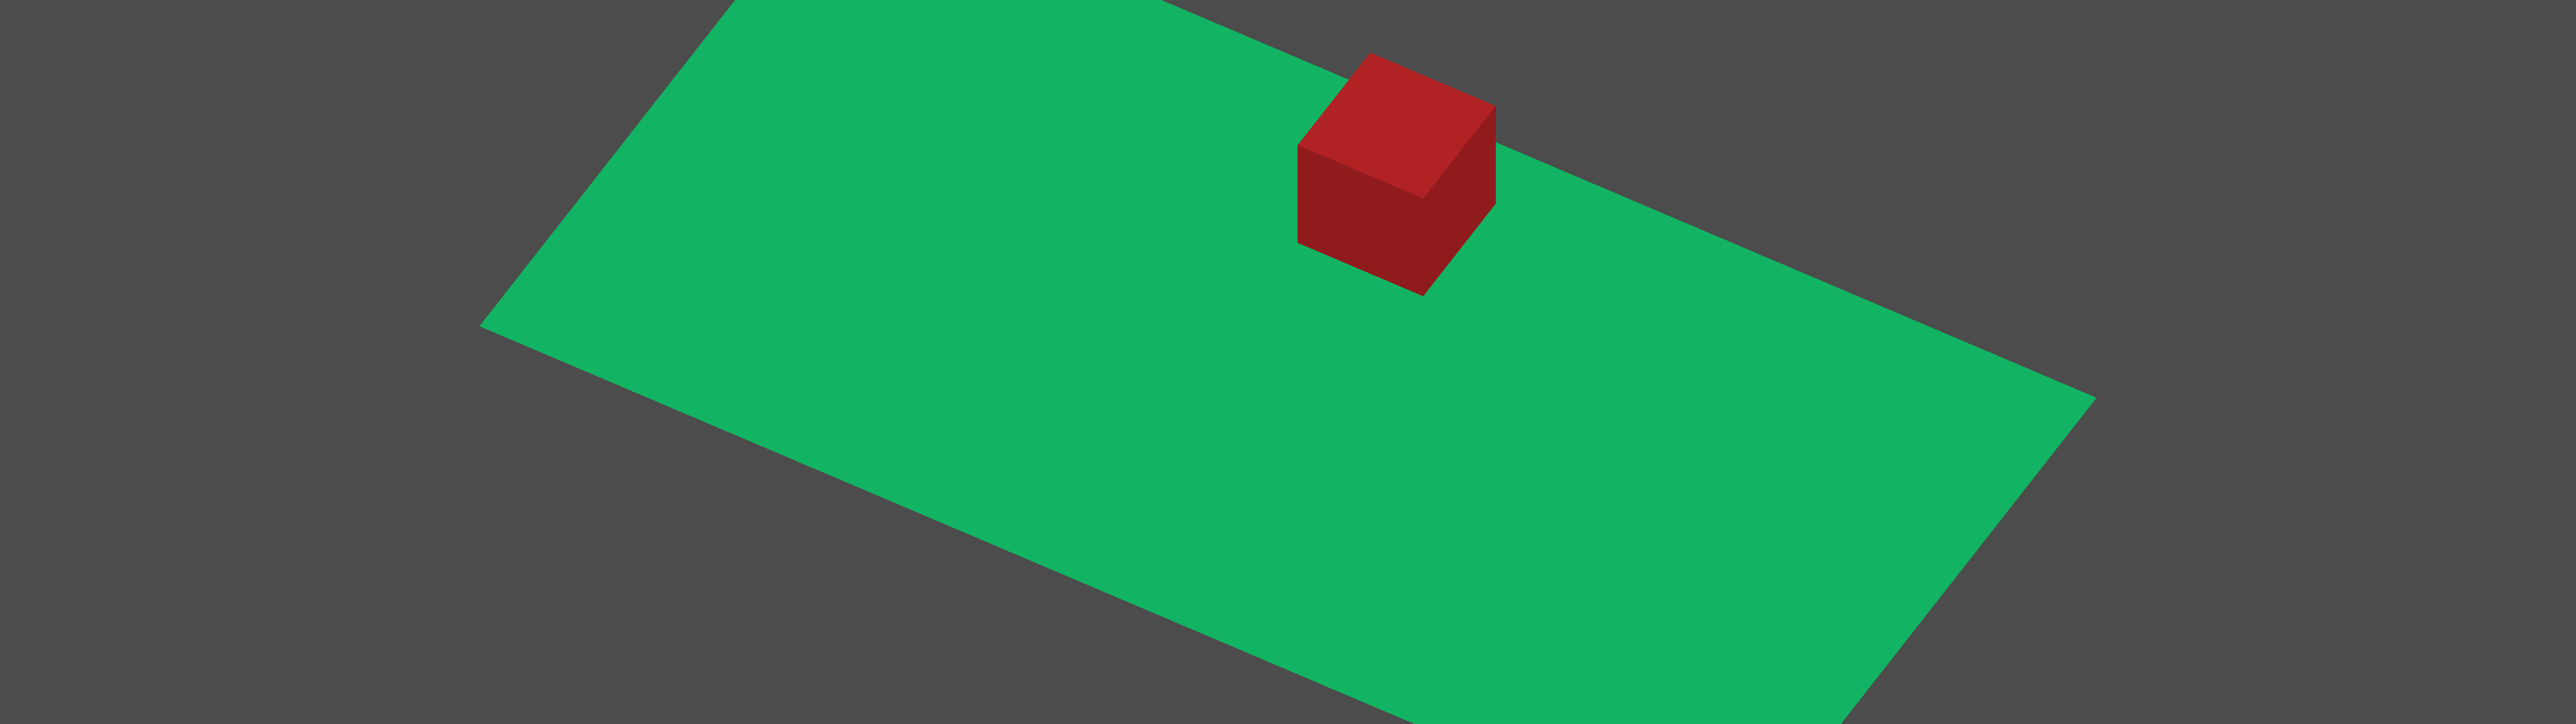
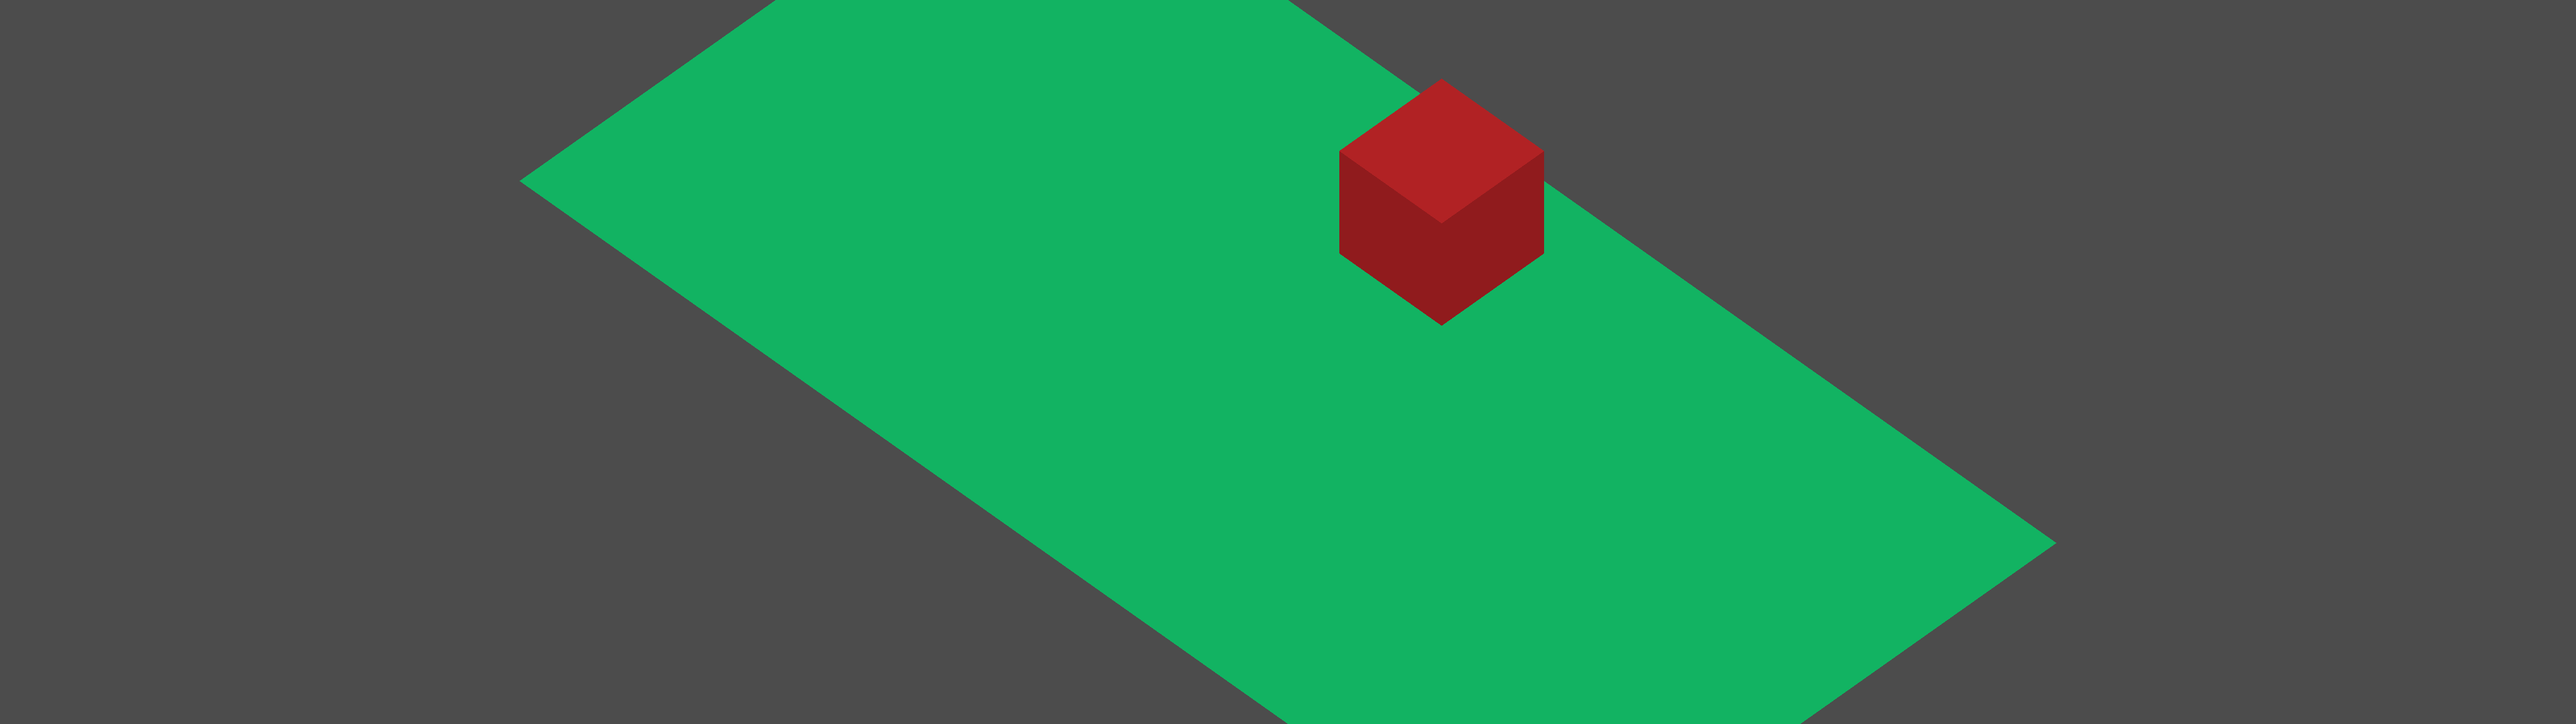
Set scene camera pitch and yaw to 45 degrees with zero roll

diff --git a/3dTestScene_CppDx12/Tools/GenerateAssets.py b/3dTestScene_CppDx12/Tools/GenerateAssets.py
@@ -309,9 +309,18 @@ def _generate_background(output_path: Path) -> str:
     image[:, :] = np.rint(np.array((0.3, 0.3, 0.3)) * 255.0).astype(np.uint8)
     depth_buffer = np.full((BACKGROUND_HEIGHT, BACKGROUND_WIDTH), np.inf, dtype=np.float64)
 
-    eye = np.array((1.6889755, 3.6863865, 2.9253915), dtype=np.float64)
+    # Match Renderer::UpdateCamera: downward pitch, yaw from +Z toward +X, zero roll.
+    pitch = math.radians(45.0)
+    yaw = math.radians(45.0)
+    distance = 5.0
+    eye = np.array(
+        (distance * math.cos(pitch) * math.sin(yaw),
+         distance * math.sin(pitch),
+         distance * math.cos(pitch) * math.cos(yaw)),
+        dtype=np.float64,
+    )
     target = np.zeros(3, dtype=np.float64)
-    up = np.array((-0.36863866, 0.6755902, -0.63850087), dtype=np.float64)
+    up = np.array((0.0, 1.0, 0.0), dtype=np.float64)
     view = _view_matrix(eye, target, up)
     projection = _orthographic_matrix(5.0 * BACKGROUND_ASPECT, 5.0, 1.0, 20.0)
     view_projection = view @ projection

diff --git a/3dTestScene_CppDx12/Source/Renderer.cpp b/3dTestScene_CppDx12/Source/Renderer.cpp
@@ -1057,9 +1057,16 @@ void Renderer::CreateConstantBuffer()
 
 void Renderer::UpdateCamera()
 {
-    const XMVECTOR eye = DirectX::XMVectorSet(1.6889755f, 3.6863865f, 2.9253915f, 1.0f);
+    // Pitch is downward from horizontal; yaw is from +Z toward +X. Roll is zero.
+    constexpr float pitch = DirectX::XM_PIDIV4;
+    constexpr float yaw = DirectX::XM_PIDIV4;
+    constexpr float distance = 5.0f;
+    const XMVECTOR eye = DirectX::XMVectorSet(
+        distance * std::cos(pitch) * std::sin(yaw),
+        distance * std::sin(pitch),
+        distance * std::cos(pitch) * std::cos(yaw), 1.0f);
     const XMVECTOR target = DirectX::XMVectorZero();
-    const XMVECTOR up = DirectX::XMVectorSet(-0.36863866f, 0.6755902f, -0.63850087f, 0.0f);
+    const XMVECTOR up = DirectX::XMVectorSet(0.0f, 1.0f, 0.0f, 0.0f);
     const XMMATRIX view = DirectX::XMMatrixLookAtRH(eye, target, up);
     const float aspectRatio = std::min(
         static_cast<float>(m_width) / static_cast<float>(m_height),
